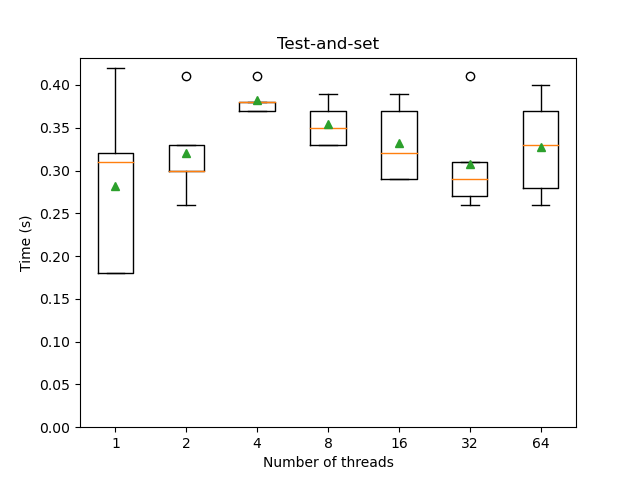
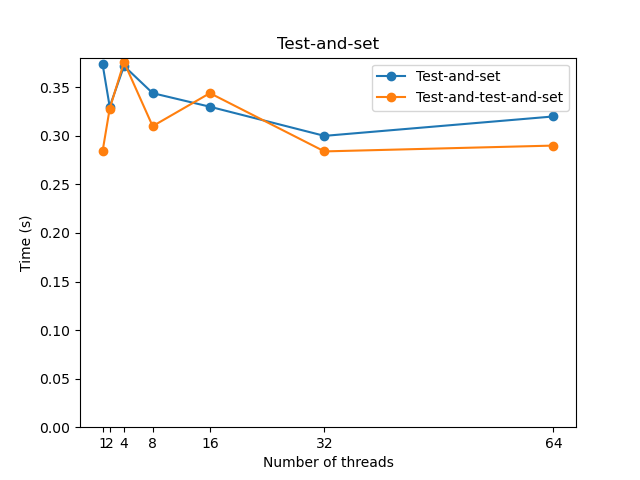
merge

diff --git a/GraphMaker.py b/GraphMaker.py
@@ -3,8 +3,9 @@ import matplotlib.pyplot as plt
 
 # Read the data
 df = pd.read_csv('temp/output.csv',sep=";")
+print(df['Program'].unique())
 #plot the data for Producer_Consumer
-for prog in df['Program'].unique():
+for prog in df['Program'].unique()[:3]:
     newdf = df[df['Program'] == prog]
     MeanTimes = []
     StdTimes = []
@@ -22,3 +23,24 @@ for prog in df['Program'].unique():
     plt.ylabel('Time (s)')
     plt.title(prog)
     plt.savefig(f'temp/{prog}.png')
+plt.clf()
+for prog in df['Program'].unique()[3:5]:
+    newdf = df[df['Program'] == prog]
+    MeanTimes = []
+    StdTimes = []
+    RawTimes = []
+    Nthreads = [1, 2, 4, 8, 16, 32, 64]
+    for i in Nthreads:
+        RawTimes.append(list(newdf[newdf['Threads'] == i]['Temps']))
+        MeanTimes.append(newdf[newdf['Threads'] == i]['Temps'].mean())
+        StdTimes.append(newdf[newdf['Threads'] == i]['Temps'].std())
+    #plt.boxplot(RawTimes, labels=Nthreads,showmeans=True)
+    #plt.errorbar(Nthreads, MeanTimes, yerr=StdTimes, fmt='o')
+    plt.plot(Nthreads, MeanTimes,marker='o',label=prog)
+plt.ylim(ymin=0)
+plt.xticks(Nthreads)
+plt.xlabel('Number of threads')
+plt.ylabel('Time (s)')
+plt.title('Test-and-set')
+plt.legend()
+plt.savefig(f'temp/Test-and-set.png')

diff --git a/test_and_test_and_set.c b/test_and_test_and_set.c
@@ -12,10 +12,10 @@ void lock(){
     while(lockAllThread == 1){};
     __asm(
         "1:"
-        "movl $1, %%eax;"
+        "movl $1, %%eax;"  
         "xchgl %%eax, %0;"
         "testl %%eax, %%eax;"
-        "jnz 1b; "
+        "jnz 1b;"
         : "=m" (lockAllThread)
         :
         : "eax", "ebx"
